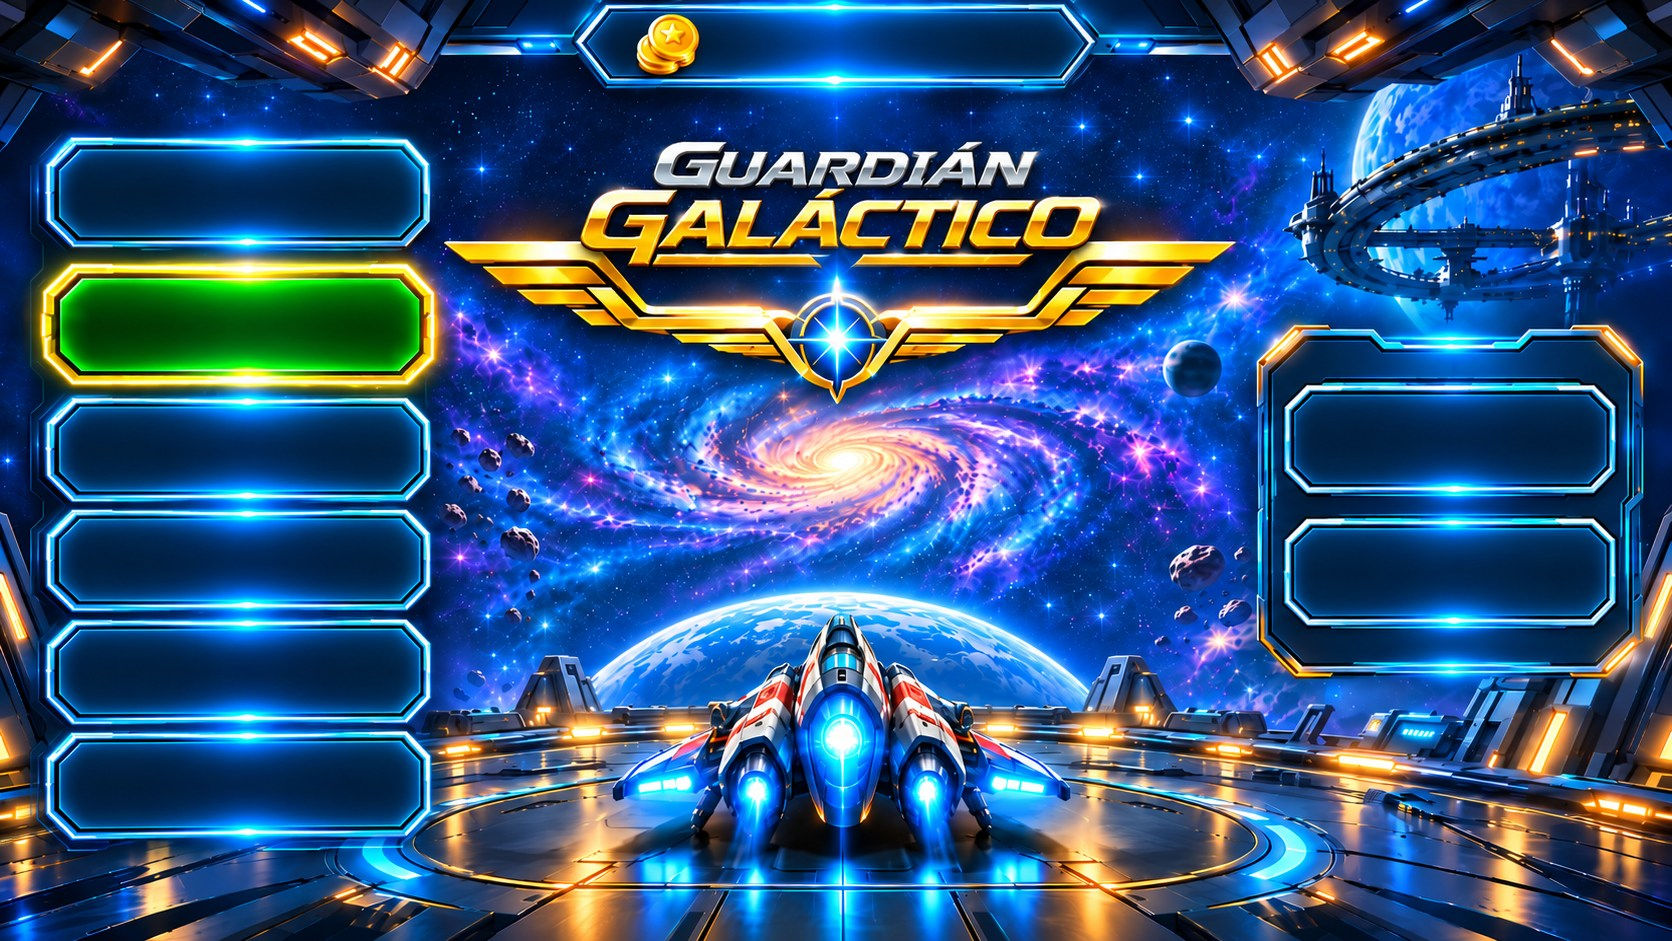
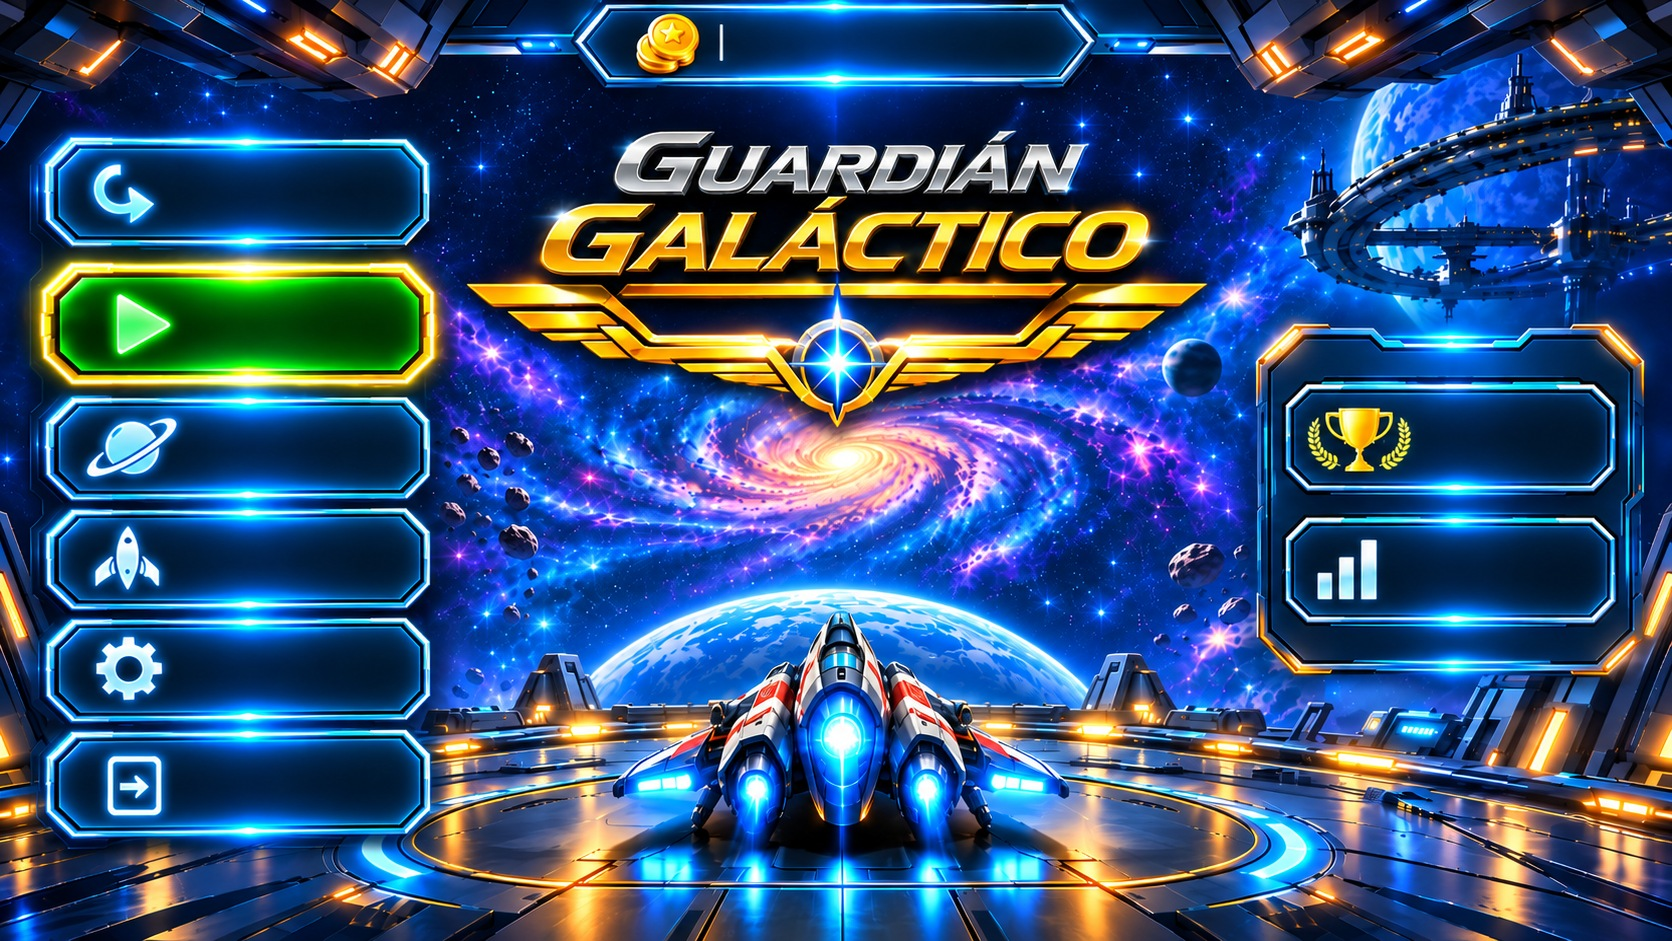
Aplica menú cósmico con nombres y accesos funcionales

diff --git a/assets/ui/gg_exact_ui.js b/assets/ui/gg_exact_ui.js
@@ -11,10 +11,9 @@ root.setAttribute('aria-label','Menú principal de Guardián Galáctico');
 root.innerHTML='<div class="gg-photo-ambient"></div><div class="gg-photo-stage" role="region" aria-label="Inicio del juego"></div>';
 document.body.append(root);
 const stage=root.querySelector('.gg-photo-stage'),ambient=root.querySelector('.gg-photo-ambient');
-const profilePanel=document.createElement('section');profilePanel.className='gg-home-profile';profilePanel.setAttribute('aria-label','Perfil de piloto y progreso');profilePanel.innerHTML='<div class="gg-home-profile-grid"><div><small>PILOTO</small><strong data-profile="name">PILOTO</strong></div><div><small>PIEZAS</small><strong data-profile="pieces">◈ 0</strong></div><div><small>NAVES</small><strong data-profile="ships">5 / 60</strong></div></div><div class="gg-home-side-actions"><button type="button" class="gg-home-action" data-act="ranking" aria-label="Abrir ranking"><span class="gg-action-icon" aria-hidden="true">🏆</span><span class="gg-action-copy"><strong>RANKING</strong><small>MEJORES PARTIDAS</small></span></button><button type="button" class="gg-home-action" data-act="stats" aria-label="Abrir estadísticas"><span class="gg-action-icon gg-chart-icon" aria-hidden="true">▂▄▇</span><span class="gg-action-copy"><strong>ESTADÍSTICAS</strong><small>PROGRESO DEL PILOTO</small></span></button></div>';root.append(profilePanel);
+const profilePanel=document.createElement('section');profilePanel.className='gg-home-profile';profilePanel.setAttribute('aria-label','Monedas y navegación');profilePanel.innerHTML='<div class="gg-home-profile-grid"><div><strong data-profile="pieces">250</strong></div></div><div class="gg-home-side-actions"><button type="button" class="gg-home-action" data-act="ranking" aria-label="Abrir ranking"><span class="gg-action-copy"><strong>RANKING</strong></span></button><button type="button" class="gg-home-action" data-act="stats" aria-label="Abrir estadísticas"><span class="gg-action-copy"><strong>ESTADÍSTICAS</strong></span></button></div>';root.append(profilePanel);
 const homeArt='assets/ui/refs/principal.right-menu.jpg';
-const menuRects=[[43,265,390,114],[43,391,390,108],[43,507,390,108],[43,621,390,109],[43,734,390,111]];
-const worldNames=['AURIX','VOLTAR','ZENTHAR','CRYON','DRAKON','NEBULIS','ORION','KAELIX','VORTEX','ELYSIUM'];
+const menuRects=[[43,265,390,118],[43,398,390,104],[43,507,390,107],[43,620,390,105],[43,734,390,106]];
 let active=false;
 function resize(){if(active)stage.style.transform=`translate(-50%,-50%) scale(${innerWidth/1672},${innerHeight/941})`}
 window.addEventListener('resize',resize);
@@ -24,22 +23,20 @@ function show(id){
   active=true;
   const s=bridge.snapshot();
   const profile=bridge.profile?.()||{};
-  profilePanel.querySelector('[data-profile="name"]').textContent=profile.name||'PILOTO';
-  profilePanel.querySelector('[data-profile="pieces"]').textContent='◈ '+Number(profile.pieces||0).toLocaleString('es-ES');
-  profilePanel.querySelector('[data-profile="ships"]').textContent=Number(profile.ships||0)+' / 60';
+  profilePanel.querySelector('[data-profile="pieces"]').textContent=Number(profile.pieces||0).toLocaleString('es-ES');
   const level=Math.max(1,Math.min(200,Number(bridge.currentMission())||1));
   stage.innerHTML='';stage.style.width='1672px';stage.style.height='941px';
   stage.style.backgroundImage=`url("${homeArt}")`;
   ambient.style.backgroundImage=`url("${homeArt}")`;
-  const labels=[['JUGAR','▶'],['MAPA GALÁCTICO','◎'],['HANGAR','♢'],['OPCIONES','⚙'],['SALIR','⇥']];
+  const labels=['JUGAR','MAPA GALÁCTICO','HANGAR','OPCIONES','SALIR'];
   menuRects.forEach(([x,y,w,h],i)=>{
     const b=document.createElement('button');b.type='button';b.className='gg-hit';b.dataset.act='nav:'+i;
-    b.className='gg-hit gg-main-menu-action';b.setAttribute('aria-label',labels[i][0]);b.innerHTML='<span aria-hidden="true">'+labels[i][1]+'</span><strong>'+labels[i][0]+'</strong>';Object.assign(b.style,{left:x+'px',top:y+'px',width:w+'px',height:h+'px'});stage.append(b);
+    b.className='gg-hit gg-main-menu-action';b.setAttribute('aria-label',labels[i]);b.innerHTML='<strong>'+labels[i]+'</strong>';Object.assign(b.style,{left:x+'px',top:y+'px',width:w+'px',height:h+'px'});stage.append(b);
   });
   const b=document.createElement('button');b.type='button';b.className='gg-continue-main';
   b.dataset.act='continue';b.setAttribute('aria-label','Continuar misión '+level);
-  b.innerHTML=`<span class="gg-continue-icon">↪</span><span>CONTINUAR<small>NIVEL ${level} DE 200 · ${worldNames[Math.floor((level-1)/20)]}</small></span>`;
-  Object.assign(b.style,{left:'57px',top:'140px',width:'370px',height:'105px'});
+  b.textContent='CONTINUAR';
+  Object.assign(b.style,{left:'43px',top:'138px',width:'390px',height:'112px'});
   stage.append(b);
   root.classList.add('active');resize();
 }

diff --git a/index.html b/index.html
@@ -312,7 +312,7 @@ body,#app{font-family:Bahnschrift,'Arial Narrow','Trebuchet MS',system-ui,sans-s
 #cockpitPanel #cockpitSecondaryIcon{width:58px!important;height:58px!important}
 @media(max-width:940px){#playLayer{--gg-sidebar:250px}#cockpitPanel .ck-foot{display:none!important}#playLayer #cockpitPanel{padding:12px!important}#gameHud .hudBar{padding:9px 12px!important}}
 @media(max-width:600px){#playLayer{--gg-sidebar:0px!important}#playLayer #cockpitPanel{display:none!important}#playLayer #pickupHud{display:flex!important}#gameHud .hudBar{padding:6px 8px!important}}
-</style><link rel="stylesheet" href="assets/ui/gg_exact_ui.css?v=20261102-interface3"><style id="gg-phase26-warp-css">
+</style><link rel="stylesheet" href="assets/ui/gg_exact_ui.css?v=20261102-interface4"><style id="gg-phase26-warp-css">
 #planetZoom{position:fixed!important;inset:0!important;z-index:1300!important}
 #planetZoom #zoomOrb{width:clamp(180px,27vw,420px)!important;height:clamp(180px,27vw,420px)!important;background-size:contain!important;background-repeat:no-repeat!important;box-shadow:none!important;filter:drop-shadow(0 0 48px var(--pc))}
 #planetZoom.active{animation:ggP26Fade 2.2s both!important}
@@ -2843,7 +2843,7 @@ window.GG_SPRITE_DIAGNOSTICS={
 };
 </script>
 <script src="assets/audio/gg_audio_v2.js"></script>
-<script src="assets/ui/gg_exact_ui.js?v=20261102-interface3"></script><script src="assets/ui/classic_restored/gg50_original_visual.js"></script><script src="assets/audio/gg39_music.js?v=20261102-musicauto6"></script><script>(function(){
+<script src="assets/ui/gg_exact_ui.js?v=20261102-interface4"></script><script src="assets/ui/classic_restored/gg50_original_visual.js"></script><script src="assets/audio/gg39_music.js?v=20261102-musicauto6"></script><script>(function(){
 const overlay=document.getElementById('gg40Boot'),bar=document.getElementById('gg40LoadFill'),pct=document.getElementById('gg40LoadPct'),text=document.getElementById('gg40LoadText');
 if(!overlay)return;
 const files=['assets/ui/gg40_loading_bg.webp','assets/planetas/mundo_01_azul.webp','assets/embedded/36019be08849ec.webp','assets/ui/combate_mundo_01.webp'];
@@ -2851,9 +2851,10 @@ let count=0;const started=performance.now();
 const progress=()=>{const n=Math.min(100,Math.round(count/files.length*100));bar.style.width=n+'%';pct.textContent=n+'%';text.textContent=n<40?'Preparando hangares…':n<70?'Cargando mundos y naves…':n<100?'Sincronizando sistemas…':'Sistemas listos · entrando al menú…';};
 Promise.all(files.map(src=>new Promise(res=>{const i=new Image();i.onload=i.onerror=()=>{count++;progress();res()};i.src=src;if(i.complete&&i.naturalWidth){count++;progress();res()}}))).then(()=>{const show=()=>{overlay.dataset.state='ready';overlay.classList.add('done');setTimeout(()=>overlay.remove(),850)};const elapsed=performance.now()-started;if(elapsed>=950)show();else setTimeout(show,950-elapsed)});
 setTimeout(()=>{if(!overlay.classList.contains('done')){count=files.length;progress();overlay.dataset.state='fallback';overlay.classList.add('done');setTimeout(()=>overlay.remove(),850)}},8500);
-})();</script><script src="assets/ui/gg49_diagnostico.js"></script><link rel="stylesheet" href="assets/ui/gg_display_settings.css?v=20261102-interface3">
-<script src="assets/ui/gg_display_settings.js?v=20261102-interface3"></script>
+})();</script><script src="assets/ui/gg49_diagnostico.js"></script><link rel="stylesheet" href="assets/ui/gg_display_settings.css?v=20261102-interface4">
+<script src="assets/ui/gg_display_settings.js?v=20261102-interface4"></script>
 </body></html>
+
 
 
 

diff --git a/index_modular.html b/index_modular.html
@@ -3,7 +3,7 @@
 
 <html lang="es"><head><meta charset="utf-8"/><meta content="width=device-width, initial-scale=1, maximum-scale=1, viewport-fit=cover" name="viewport"/><meta content="#050d20" name="theme-color"/><title>Guardián Galáctico · Edición PC 55</title>
 <link rel="stylesheet" href="src/styles/00_game_base.css"><link rel="stylesheet" href="src/styles/01_game_layout.css"><link rel="stylesheet" href="src/styles/02_game_look.css"><link rel="stylesheet" href="src/styles/03_game_worlds.css">
-<link rel="stylesheet" href="src/styles/04_game_combat.css"><link rel="stylesheet" href="assets/ui/nueva_interfaz.css"><link rel="stylesheet" href="src/styles/05_game_hangar.css"><link rel="stylesheet" href="assets/ui/gg_exact_ui.css?v=20261102-interface3"><link rel="stylesheet" href="src/styles/06_game_accessibility.css">
+<link rel="stylesheet" href="src/styles/04_game_combat.css"><link rel="stylesheet" href="assets/ui/nueva_interfaz.css"><link rel="stylesheet" href="src/styles/05_game_hangar.css"><link rel="stylesheet" href="assets/ui/gg_exact_ui.css?v=20261102-interface4"><link rel="stylesheet" href="src/styles/06_game_accessibility.css">
 <link rel="stylesheet" href="assets/ui/gg_phase28_transition.css"><link rel="stylesheet" href="assets/ui/gg_combate_cinematico.css"><link rel="stylesheet" href="assets/ui/gg_f34_hud_futurista.css"><link rel="stylesheet" href="assets/ui/gg_f37_cockpit_neon.css?v=20261102-hudfix1"><link rel="stylesheet" href="src/styles/07_game_audio.css"><link rel="stylesheet" href="src/styles/08_game_extra.css">
 
 <link rel="stylesheet" href="src/styles/09_game_options.css">
@@ -155,4 +155,5 @@
 
 <script src="src/scripts/04_effects.js"></script>
 <script src="assets/audio/gg_audio_v2.js"></script>
-<script src="assets/ui/gg_exact_ui.js?v=20261102-interface3"></script><script src="assets/ui/gg_display_settings.js?v=20261102-interface3"></script><script src="assets/ui/classic_restored/gg50_original_visual.js"></script><script src="assets/audio/gg39_music.js?v=20261102-musicauto6"></script><script src="src/scripts/05_loading.js"></script><script src="assets/ui/gg49_diagnostico.js"></script></body></html>
+<script src="assets/ui/gg_exact_ui.js?v=20261102-interface4"></script><script src="assets/ui/gg_display_settings.js?v=20261102-interface4"></script><script src="assets/ui/classic_restored/gg50_original_visual.js"></script><script src="assets/audio/gg39_music.js?v=20261102-musicauto6"></script><script src="src/scripts/05_loading.js"></script><script src="assets/ui/gg49_diagnostico.js"></script></body></html>
+

diff --git a/assets/ui/gg_exact_ui.css b/assets/ui/gg_exact_ui.css
@@ -285,3 +285,18 @@ html,body,#app,#pauseModal,#pauseModal button,#pauseModal input,#pauseModal sele
 #settings .gg-display-status{min-height:18px;margin:10px 0 0;color:#9be8f0;font:600 12px 'Exo 2',sans-serif}
 #settings .gg-display-hint{max-width:900px}
 @media(max-width:600px){#settings .gg-display-card .gg-display-row{grid-template-columns:1fr;gap:6px}#settings .gg-display-card{grid-column:auto}}
+
+/* Menú cósmico adjunto: la ilustración ya contiene los marcos y los iconos.
+   La capa HTML aporta únicamente los nombres y mantiene los botones activos. */
+#ggExactUI .gg-home-profile-grid{left:43.5%;top:1.1%;width:20%;height:6%;grid-template-columns:1fr;align-items:center}
+#ggExactUI .gg-home-profile-grid>div{padding:0;border:0;background:transparent;text-align:left}
+#ggExactUI .gg-home-profile-grid strong{color:#fff;font:700 clamp(19px,1.9vw,29px)/1 'Exo 2',sans-serif;letter-spacing:.04em;text-shadow:0 0 8px #56cfff}
+#ggExactUI .gg-home-side-actions{left:76.2%;top:40.1%;width:20.5%;height:28%;gap:8%}
+#ggExactUI .gg-home-action{flex-direction:row;gap:0;padding:5px 8px;text-align:center}
+#ggExactUI .gg-home-action .gg-action-copy{display:flex;min-width:0;flex:1;align-items:center;justify-content:center}
+#ggExactUI .gg-home-action strong{font:700 clamp(17px,1.8vw,27px)/1.05 'Rajdhani',sans-serif;letter-spacing:.04em}
+#ggExactUI button.gg-hit.gg-main-menu-action{justify-content:center;gap:0;padding:0;text-align:center;font:700 clamp(21px,2vw,30px)/1 'Rajdhani',sans-serif;letter-spacing:.04em}
+#ggExactUI button.gg-hit.gg-main-menu-action:first-child{color:#eaffed}
+#ggExactUI .gg-continue-main{left:43px!important;top:138px!important;width:390px!important;height:112px!important;justify-content:center;padding:0;font:700 clamp(21px,2vw,30px)/1 'Rajdhani',sans-serif;letter-spacing:.04em}
+#ggExactUI .gg-continue-main:hover,#ggExactUI .gg-continue-main:focus-visible{background:#23aaff1c!important}
+@media(max-width:700px){#ggExactUI .gg-home-profile-grid{left:43.5%;top:1.2%;width:20%;height:5.7%;grid-template-columns:1fr}#ggExactUI .gg-home-profile-grid strong{font-size:clamp(13px,1.8vw,19px)}#ggExactUI .gg-home-side-actions{left:76.2%;top:40.1%;width:20.5%;height:28%;gap:8%}#ggExactUI .gg-home-action strong{font-size:clamp(10px,1.6vw,17px)}#ggExactUI button.gg-hit.gg-main-menu-action{padding:0;font-size:clamp(12px,1.8vw,21px)}#ggExactUI .gg-continue-main{left:43px!important;top:138px!important;width:390px!important;height:112px!important;font-size:clamp(12px,1.8vw,21px)}}
